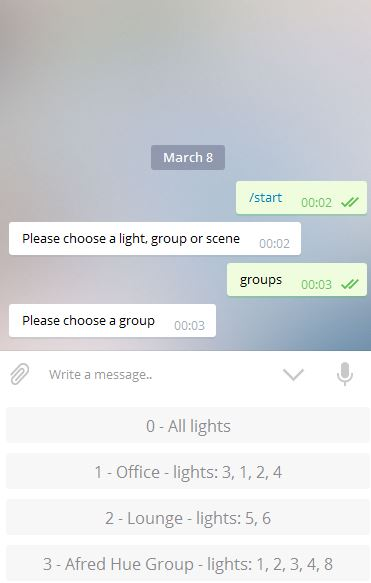
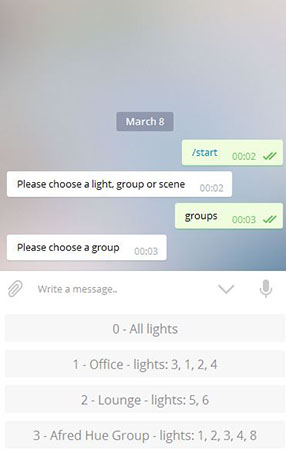
add screenshots to readme

diff --git a/Readme.md b/Readme.md
@@ -10,16 +10,13 @@ Bot which lets you or others control [Hue](http://www.meethue.com/) Lights via t
 
 ![Step 3](/screenshots/step4.jpg?raw=true) ![Step 4](/screenshots/step4.jpg?raw=true)
 
-
-
-Contact [@BotFather](http://telegram.me/BotFather) on Telegram to create and get a bot token.
-
 Getting Started
 ---------------
 
 ## Prerequisites
 - [Node.js](http://nodejs.org) v4.2.x+
 - A Telegram bot - see [here](<https://core.telegram.org/bots#botfather>) for instructions
+- Contact [@BotFather](http://telegram.me/BotFather) on Telegram to create and get a bot token.
 
 ## Installation
 
